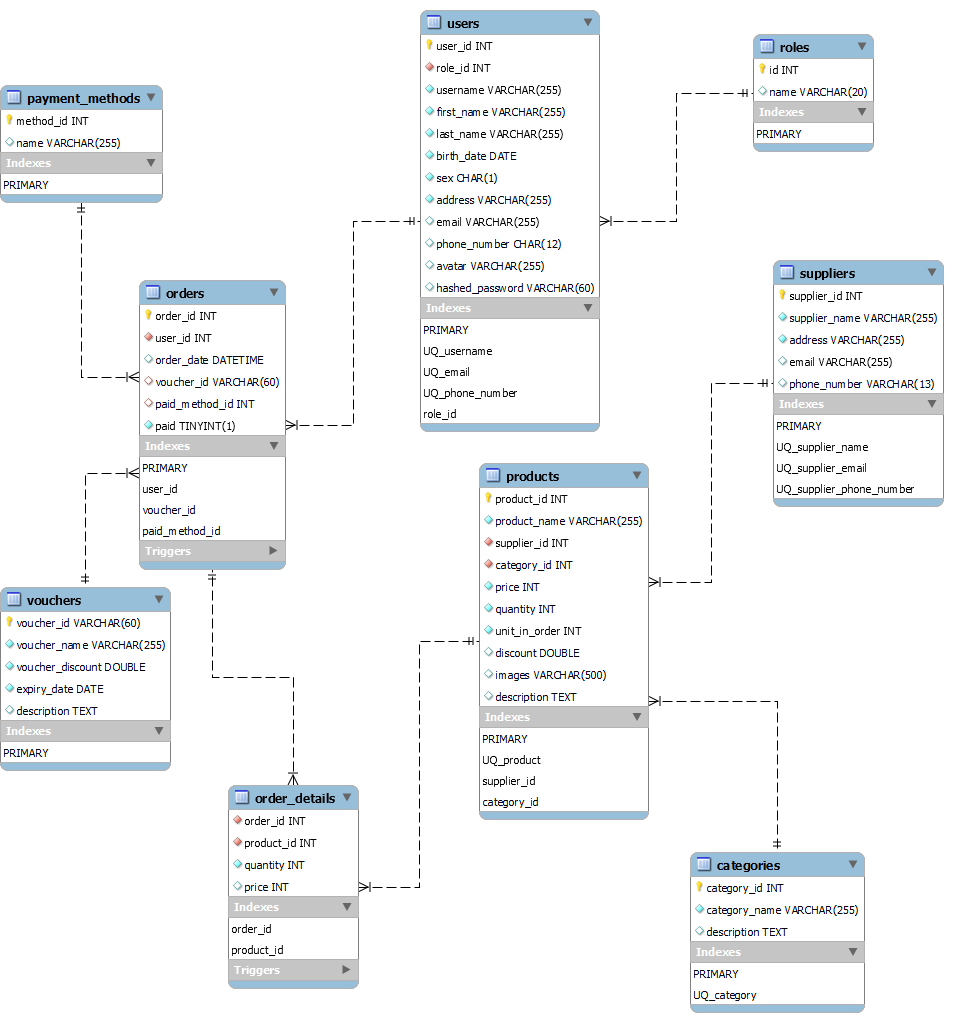
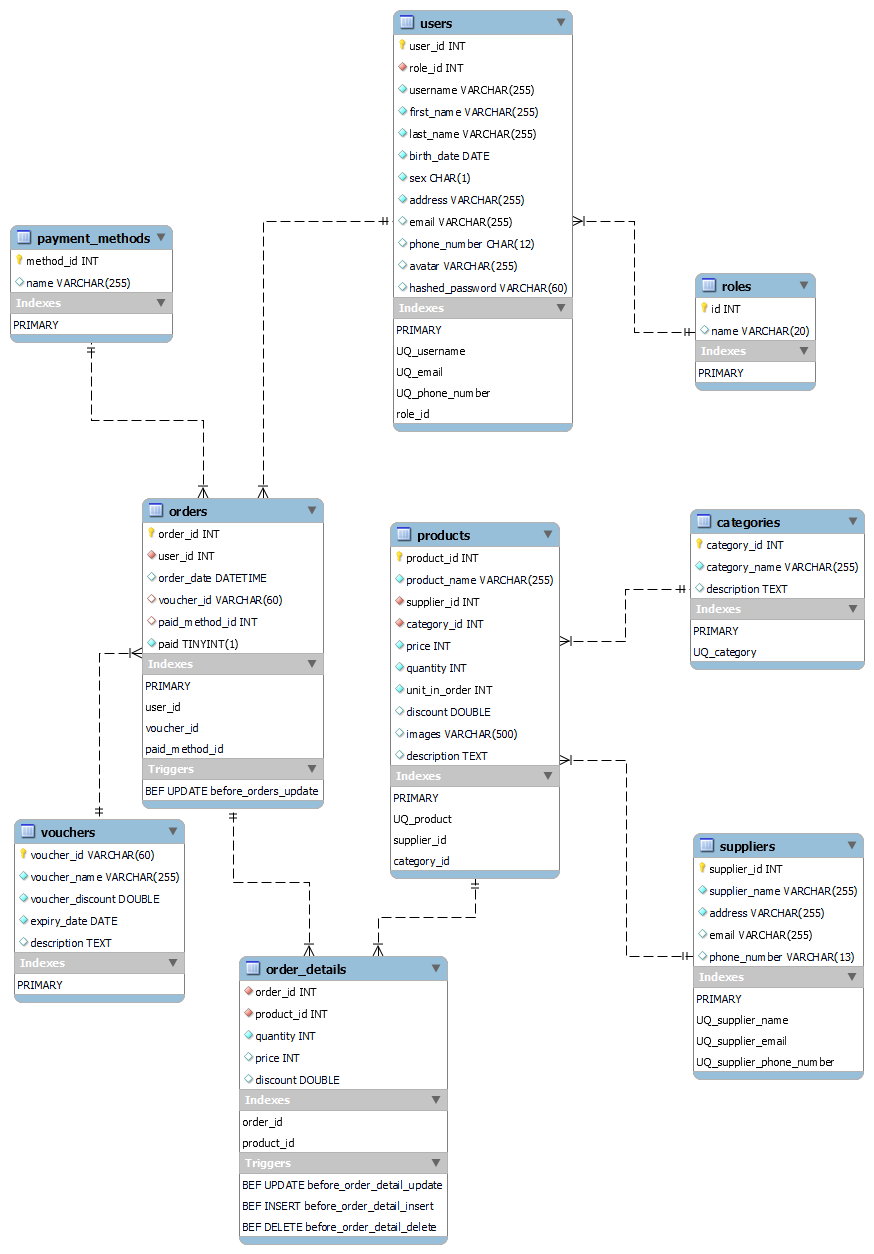
Add discount to order details

diff --git a/server/cache/order.js b/server/cache/order.js
@@ -11,31 +11,87 @@ async function initializeOrder() {
             'FROM orders LEFT JOIN payment_methods ON orders.paid_method_id = payment_methods.method_id'
         ].join(' ')
         const queryString1 = [
-            'SELECT order_details.product_id, order_details.quantity, products.price, product_name', // replace products.price later
+            'SELECT order_details.product_id, order_details.quantity, order_details.price, order_details.discount, product_name', // Mấy cái thanh toán rồi thì có price, chỉ handle mấy cái chưa thanh toán
             'FROM order_details JOIN products ON order_details.product_id = products.product_id',
             'WHERE order_id = ?'
         ].join(' ')
         const [rows] = await pool.query(queryString)
-        rows.forEach(row => {
+        rows.forEach(async (row) => {
             const orderID = row['order_id']
             const userID = row['user_id']
             const orderDate = row['order_date']
             const paidMethod = row['paid_method']
             const paid = row['paid']
             const order = new Order(orderID, userID, orderDate, paidMethod, paid)
-            const [rows] = pool.query(queryString1, [orderID])
+            const [rows] = await pool.query(queryString1, [orderID])
             rows.forEach(row => {
                 const productID = row['product_id']
                 const productName = row['product_name']
                 const quantity = row['quantity']
                 const price = row['price']
-                order.addProduct(productID, productName, quantity, price)
+                const discount = row['discount']
+                order.addProduct(productID, productName, quantity, price, discount)
             })
             if (order.paid) order.paidOrder(paidMethod, orderDate)
         })
     } catch (error) {
         console.log('\x1b[31m%s\x1b[0m', `Fail to initialize orders data: ${error.message}`)
         throw new Error(`Fail to initialize orders data: ${error.message}`)
+    }
+}
+function findOrder(orderID) {
+    orders.findIndex(order => {
+        return order.orderID === orderID
+    })
+}
+async function getOrder(orderID) {
+    try {
+        const queryString = [
+            'SELECT order_id, user_id, order_date, payment_methods.name AS paid_method, paid',
+            'FROM orders LEFT JOIN payment_methods ON orders.paid_method_id = payment_methods.method_id',
+            'WHERE order_id = ?'
+        ].join(' ')
+        const queryString1 = [
+            'SELECT order_details.product_id, order_details.quantity, order_details.price, order_details.discount, product_name', // Mấy cái thanh toán rồi thì có price, chỉ handle mấy cái chưa thanh toán
+            'FROM order_details JOIN products ON order_details.product_id = products.product_id',
+            'WHERE order_id = ?'
+        ].join(' ')
+        const [rows] = await pool.query(queryString, [orderID])
+        const orderID = rows[0]['order_id']
+        const userID = rows[0]['user_id']
+        const orderDate = rows[0]['order_date']
+        const paidMethod = rows[0]['paid_method']
+        const paid = rows[0]['paid']
+        const order = new Order(orderID, userID, orderDate, paidMethod, paid)
+        const products = await pool.query(queryString1, [orderID])
+        products.forEach(row => {
+            const productID = row['product_id']
+            const productName = row['product_name']
+            const quantity = row['quantity']
+            const price = row['price']
+            const discount = row['discount']
+            order.addProduct(productID, productName, quantity, price, discount)
+        })
+        if (order.paid) order.paidOrder(paidMethod, orderDate)
+        orders.splice(findOrder(orderID), 1)
+        orders.push(order)
+        return order
+    } catch (error) {
+        console.log('\x1b[31m%s\x1b[0m', error.message)
+        throw new Error(error.message)
+    }
+}
+async function paidOrder(orderID, paymentMethodID) {
+    try {
+        const queryString = [
+            'UPDATE orders',
+            'SET paid = 1, paid_method_id = ?, order_date = NOW()',
+            'WHERE order_id = ?'
+        ].join(' ')
+        await pool.query(queryString, [paymentMethodID, orderID])
+    } catch (error) {
+        console.log('\x1b[31m%s\x1b[0m', error.message)
+        throw new Error(error.message)
     }
 }
 module.exports = {

diff --git a/server/models/order.js b/server/models/order.js
@@ -8,9 +8,8 @@ class Order {
         this.products = [] // {productID, productName, quantity, price?}
         this.total = 0
     }
-    #setCurrentPrice() { }
-    addProduct(productID, productName, quantity, price) {
-        this.products.push({ productID, productName, quantity, price })
+    addProduct(productID, productName, quantity, price, discount) {
+        this.products.push({ productID, productName, quantity, price, discount })
     }
     setProduct(productID, quantity) {
         for (let index = 0; index < this.products.length; i++) {
@@ -27,7 +26,6 @@ class Order {
         this.products.splice(index, 1)
     }
     paidOrder(paidMethod, orderDate) {
-        this.#setCurrentPrice()
         this.paidMethod = paidMethod
         this.total = this.products.reduce((sum, product) => {
             return sum + product.price * product.quantity
